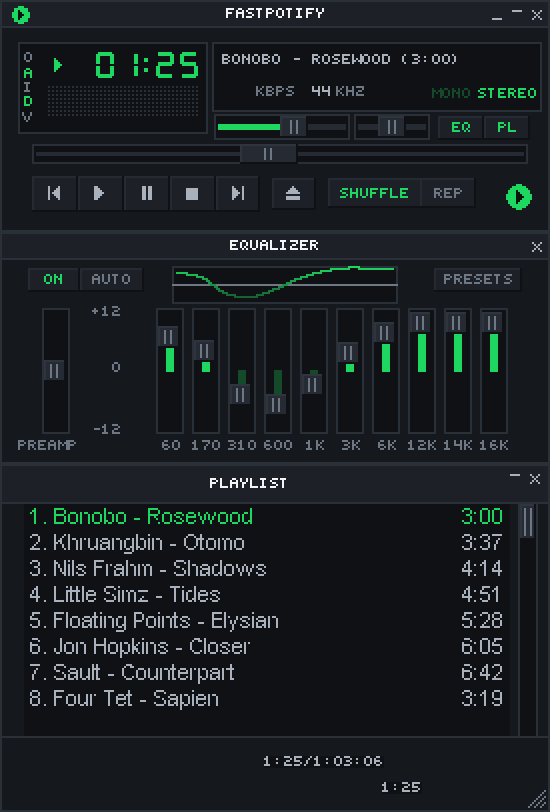
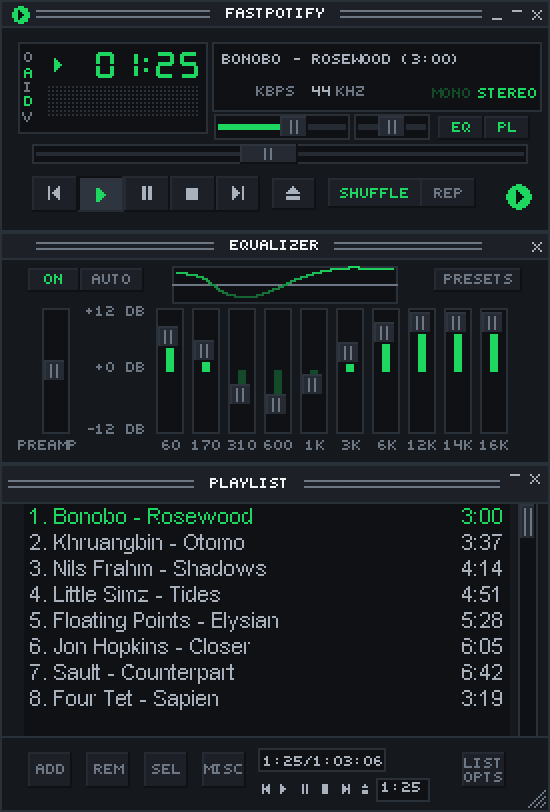
Finish the built-in skin's windows and press play in
Beside Winamp's own skin the built-in one looked unfinished: the
playlist's bottom bar was bare, so the times floated, and the titles
had none of the lines Winamp ran either side of them. The playlist
now has its ADD, REM, SEL, and MISC buttons (painted and quiet, there
being no files to add), the running time in its box, the little
transport, which now works, the song's time in its box, and LIST OPTS;
every title bar has its lines; and the equalizer's labels say +12 db,
+0 db, and -12 db as they did.

Play sits pressed in while the music plays and pause while it waits,
as Carmine remembers it.

diff --git a/examples/default_skin.rs b/examples/default_skin.rs
@@ -104,6 +104,9 @@ const FONT: &[(char, &str)] = &[
 ];
 
 fn art(character: char) -> &'static str {
+    if character == ' ' {
+        return "";
+    }
     let character = character.to_ascii_uppercase();
     FONT.iter()
         .find(|(c, _)| *c == character)
@@ -245,6 +248,14 @@ impl Canvas {
     }
 }
 
+/// The pair of lines Winamp ran either side of a window's title.
+fn title_lines(c: &mut Canvas, x0: i64, x1: i64, y: i64) {
+    if x1 > x0 {
+        c.rect(x0, y, x1 - x0, 1, DIM);
+        c.rect(x0, y + 3, x1 - x0, 1, DIM);
+    }
+}
+
 /// A raised button with pixel art on it.
 fn button(canvas: &mut Canvas, area: Box, pressed: bool, rows: &str) {
     if pressed {
@@ -333,6 +344,10 @@ fn title_bar(c: &mut Canvas, x: i64, y: i64, active: bool, shade: bool) {
         display(c, (x + 226, y + 4, 17, 7));
     } else {
         c.text_centred((x, y + 1, 275, 12), "FASTPOTIFY", color);
+        let width = 5 * 10 - 1;
+        let start = x + (275 - width) / 2;
+        title_lines(c, x + 18, start - 8, y + 5);
+        title_lines(c, start + width + 8, x + 241, y + 5);
     }
 }
 
@@ -559,6 +574,14 @@ fn pledit_sheet() -> Canvas {
         c.rect(0, y, 178, 20, SURFACE);
         c.frame((0, y, 178, 20), OUTLINE);
         c.text_centred((26, y, 100, 20), "PLAYLIST", color);
+        let width = 5 * 8 - 1;
+        let start = 26 + (100 - width) / 2;
+        // Across the left corner, the tiles, and the title on both sides
+        // of its word; the right corner keeps its buttons.
+        title_lines(&mut c, 4, 25, y + 8);
+        title_lines(&mut c, 26, start - 8, y + 8);
+        title_lines(&mut c, start + width + 8, 126, y + 8);
+        title_lines(&mut c, 127, 152, y + 8);
         c.glyph_centred((156, y + 3, 9, 9), SHADE, SECONDARY, 0);
         c.glyph_centred((166, y + 3, 9, 9), CLOSE, SECONDARY, 0);
     }
@@ -591,6 +614,30 @@ fn pledit_sheet() -> Canvas {
     // The bottom: both corners, the tile between them, the visualiser's
     // well, and a grip in the corner for resizing.
     c.frame((0, 72, 276, 38), OUTLINE);
+    // The left half's menus, painted and quiet: Fastpotify has no files
+    // to add, but a bottom without them looks unfinished.
+    for (x, label) in [(14, "ADD"), (43, "REM"), (72, "SEL"), (101, "MISC")] {
+        label_button(&mut c, (x, 80, 22, 18), false, false, label);
+    }
+    // The right half: the running time's box, the little transport, the
+    // song's time, LIST OPTS, and the grip. The sheet's right half is a
+    // pixel over from where it lands in the window.
+    display(&mut c, (130, 78, 64, 12));
+    let mini: [&str; 6] = [
+        "#..#/#.##/####/#.##/#..#",
+        "#..../##.../###../##.../#....",
+        "#.#/#.#/#.#/#.#/#.#",
+        "###/###/###/###/###",
+        "#..#/##.#/####/##.#/#..#",
+        ".#./###/.../###/###",
+    ];
+    for (index, rows) in mini.into_iter().enumerate() {
+        c.glyph_centred((129 + 10 * index as i64, 94, 10, 10), rows, SECONDARY, 0);
+    }
+    display(&mut c, (189, 93, 27, 12));
+    label_button(&mut c, (232, 80, 22, 18), false, false, "");
+    c.text(233, 83, "LIST", DIM);
+    c.text(233, 90, "OPTS", DIM);
     for dy in 0..9 {
         for dx in 0..9 {
             if dx + dy >= 8 && (dx + dy) % 3 == 2 {
@@ -610,9 +657,9 @@ fn pledit_sheet() -> Canvas {
 fn eqmain_sheet() -> Canvas {
     let mut c = Canvas::new(275, 315, PANEL);
     c.frame((0, 0, 275, 116), OUTLINE);
-    c.text(46, 37, "+12", DIM);
-    c.text(56, 65, "0", DIM);
-    c.text(46, 96, "-12", DIM);
+    c.text(43, 37, "+12 DB", DIM);
+    c.text(48, 65, "+0 DB", DIM);
+    c.text(43, 96, "-12 DB", DIM);
     c.text(9, 104, "PREAMP", DIM);
     let labels = [
         "60", "170", "310", "600", "1K", "3K", "6K", "12K", "14K", "16K",
@@ -626,6 +673,10 @@ fn eqmain_sheet() -> Canvas {
         c.rect(0, y, 275, 14, SURFACE);
         c.frame((0, y, 275, 14), OUTLINE);
         c.text_centred((0, y + 1, 275, 12), "EQUALIZER", color);
+        let width = 5 * 9 - 1;
+        let start = (275 - width) / 2;
+        title_lines(&mut c, 18, start - 8, y + 5);
+        title_lines(&mut c, start + width + 8, 241, y + 5);
     }
     c.rect(0, 116, 9, 9, SURFACE);
     c.glyph_centred((0, 116, 9, 9), CLOSE, SECONDARY, 0);

diff --git a/src/ui/winamp/playlist.rs b/src/ui/winamp/playlist.rs
@@ -71,6 +71,45 @@ pub(super) fn show(app: &mut App, view: &mut View, now: Option<&NowPlaying>, foc
     scrollbar(app, view, rows.len(), height);
     grip(app, view, height);
     times(view, now, &rows, height);
+    mini_transport(app, view, now, height);
+}
+
+/// The little transport in the bottom right: the same as the big one,
+/// painted into the skin, so these are only places to click.
+fn mini_transport(app: &mut App, view: &mut View, now: Option<&NowPlaying>, height: u32) {
+    let (x, dy) = layout::PLAYLIST_MINI_TRANSPORT;
+    let y = height - layout::PLAYLIST_BOTTOM_HEIGHT + dy;
+    let playing = now.is_some_and(|now| now.playing);
+    for (index, name) in ["previous", "play", "pause", "stop", "next", "eject"]
+        .into_iter()
+        .enumerate()
+    {
+        let cell = Area::new(x + 10 * index as u32, y, 10, 10);
+        let response = view
+            .interact(cell, &format!("playlist-{name}"), Sense::click())
+            .on_hover_cursor(egui::CursorIcon::PointingHand);
+        if !response.clicked() {
+            continue;
+        }
+        match name {
+            "previous" => app.actions.push(Action::Previous),
+            "play" => app.actions.push(if playing {
+                Action::Seek(0)
+            } else {
+                Action::TogglePlay
+            }),
+            "pause" if now.is_some() => app.actions.push(Action::TogglePlay),
+            "stop" if now.is_some() => {
+                if playing {
+                    app.actions.push(Action::TogglePlay);
+                }
+                app.actions.push(Action::Seek(0));
+            }
+            "next" => app.actions.push(Action::Next),
+            "eject" => app.actions.push(Action::ToggleWinampWindow),
+            _ => {}
+        }
+    }
 }
 
 /// The frame: corners and tiles across the top, tiles down the sides

diff --git a/src/ui/winamp/mod.rs b/src/ui/winamp/mod.rs
@@ -860,8 +860,14 @@ fn transport(app: &mut App, view: &mut View, now: Option<&NowPlaying>) {
     {
         app.actions.push(Action::Previous);
     }
+    // Play sits pressed in while the music plays, pause while it waits.
+    let play = if playing {
+        sprites::PLAY_PRESSED
+    } else {
+        sprites::PLAY
+    };
     if view
-        .button(layout::PLAY, sprites::PLAY, sprites::PLAY_PRESSED, "play")
+        .button(layout::PLAY, play, sprites::PLAY_PRESSED, "play")
         .clicked()
     {
         // Play on a playing song starts it over, as it did.
@@ -871,13 +877,13 @@ fn transport(app: &mut App, view: &mut View, now: Option<&NowPlaying>) {
             app.actions.push(Action::TogglePlay);
         }
     }
+    let pause = if now.is_some() && !playing {
+        sprites::PAUSE_PRESSED
+    } else {
+        sprites::PAUSE
+    };
     if view
-        .button(
-            layout::PAUSE,
-            sprites::PAUSE,
-            sprites::PAUSE_PRESSED,
-            "pause",
-        )
+        .button(layout::PAUSE, pause, sprites::PAUSE_PRESSED, "pause")
         .clicked()
         && now.is_some()
     {

diff --git a/src/skin/layout.rs b/src/skin/layout.rs
@@ -108,6 +108,9 @@ pub const PLAYLIST_GRIP: u32 = 20;
 /// top.
 pub const PLAYLIST_RUNNING_TIME: (u32, u32) = (132, 10);
 pub const PLAYLIST_TRACK_TIME: (u32, u32) = (191, 23);
+/// The little transport along the bottom: six ten-pixel cells from here,
+/// previous to eject.
+pub const PLAYLIST_MINI_TRANSPORT: (u32, u32) = (128, 22);
 
 /// The equalizer window, between the main window and the playlist.
 pub const EQ_HEIGHT: u32 = 116;
